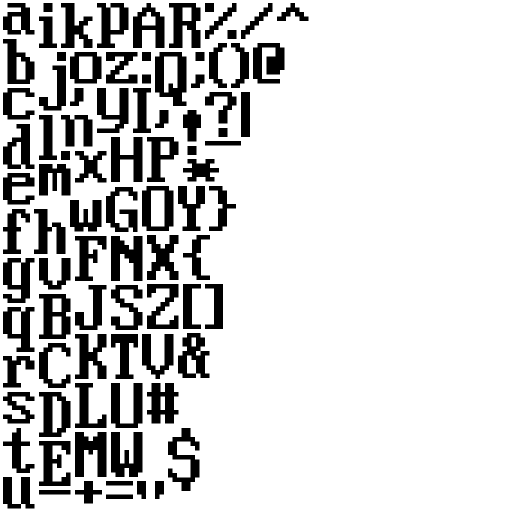
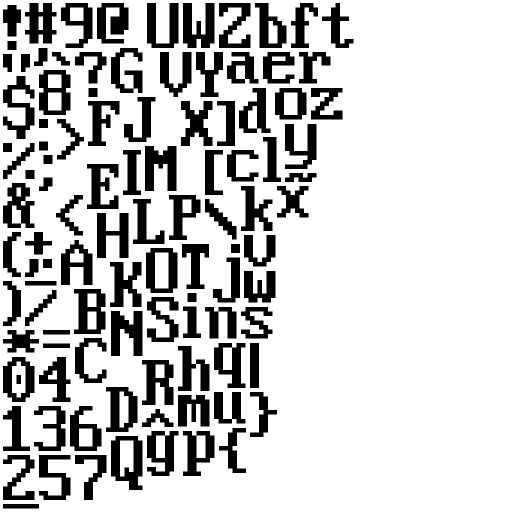
Font offsets more accurate. Broken FPS counter. yoffset for font broken.

Changed region(s): [[0.0, 0.0, 0.6875, 1.0]]

diff --git a/HTML5-Engine/public_html/javascript/MainLevel.js b/HTML5-Engine/public_html/javascript/MainLevel.js
@@ -9,7 +9,10 @@ function MainLevel()
     this.mPlayer;
     this.mEnemyManager;
     this.mBackgroundManager;
-    this.mTestString;
+    this.mFPSText;
+    
+    // FPS variables
+    this.mPrevTime = Date.now();
 }
 MainLevel.prototype = Object.create(Scene.prototype);
 
@@ -59,13 +62,13 @@ MainLevel.prototype.initialize = function()
     // Text
     var textTransform = new Transform();
     textTransform.setPosition(5,5);
-    textTransform.setSize(1,1);
+    textTransform.setSize(10,10);
     textTransform.setZOrder(7);
     
-    this.mTestString = new FontTexture(textTransform, this.mMainShader,
+    this.mFPSText = new FontTexture(textTransform, this.mMainShader,
                                        "resources/fonts/dos-font.png",
                                        "resources/fonts/dos-font.fnt",
-                                       "Testing Textures! 87465@#RT");
+                                       "Testing Textures! 87465@#RT...'");
     
     // Setup background audio, can't take it any more.
     //EngineCore.Resources.playBackgroundAudio("resources/Mind_Meld.mp3");
@@ -88,22 +91,25 @@ MainLevel.prototype.update = function()
         EngineCore.Resources.stopBackgroundAudio();
     }
     
-    if(EngineCore.Input.isKeyDown(EngineCore.Input.LEFT))
-    {
-        this.mTestString.mTransformMatrix.getScale()[0] -= .1;
-    }
-    if(EngineCore.Input.isKeyDown(EngineCore.Input.RIGHT))
-    {
-        this.mTestString.mTransformMatrix.getScale()[0] += .1;
-    }
-    if(EngineCore.Input.isKeyDown(EngineCore.Input.UP))
-    {
-        this.mTestString.mTransformMatrix.getScale()[1] += .1;
-    }
-    if(EngineCore.Input.isKeyDown(EngineCore.Input.DOWN))
-    {
-        this.mTestString.mTransformMatrix.getScale()[1] -= .1;
-    }
+//    if(EngineCore.Input.isKeyDown(EngineCore.Input.LEFT))
+//    {
+//        this.mFPSText.mTransformMatrix.getScale()[0] -= .1;
+//    }
+//    if(EngineCore.Input.isKeyDown(EngineCore.Input.RIGHT))
+//    {
+//        this.mFPSText.mTransformMatrix.getScale()[0] += .1;
+//    }
+//    if(EngineCore.Input.isKeyDown(EngineCore.Input.UP))
+//    {
+//        this.mFPSText.mTransformMatrix.getScale()[1] += .1;
+//    }
+//    if(EngineCore.Input.isKeyDown(EngineCore.Input.DOWN))
+//    {
+//        this.mFPSText.mTransformMatrix.getScale()[1] -= .1;
+//    }
+    
+    this.mFPSText.mTransformMatrix.setX(this.mCamera.getCameraX() - (this.mCamera.getCameraWidth() / 2));
+    this.mFPSText.mTransformMatrix.setY(this.mCamera.getCameraY() - (this.mCamera.getCameraHieght() * .45));
     
     // Update Scene
     this.mPlayer.update();
@@ -113,10 +119,15 @@ MainLevel.prototype.update = function()
 
 MainLevel.prototype.draw = function()
 {
+    var elapsedTime = Date.now() - this.mPrevTime;
+    var mpf = "MS Per Frame: " + elapsedTime;
+    this.mFPSText.mText = mpf;
+    
     EngineCore.Resources.clearCanvas();
     this.mEnemyManager.addToDrawSet();
     this.mBackgroundManager.addToDrawSet();
     this.mPlayer.addToDrawSet();
-    this.mTestString.addToDrawSet();
+    this.mFPSText.addToDrawSet();
     this.mCamera.draw();
+    this.mPrevTime = Date.now();
 };

diff --git a/HTML5-Engine/public_html/javascript/Engine/FontTexture.js b/HTML5-Engine/public_html/javascript/Engine/FontTexture.js
@@ -39,10 +39,7 @@ FontTexture.prototype._drawText = function(gl, shaderProgram, textureCoordBuffer
     var stringSize = this.mTransformMatrix.getScale();
     
     for(var charIndex = 0; charIndex < this.mText.length; charIndex++)
-    {
-        var offsetVector = vec3.create();
-        vec3.set(offsetVector, xAdvance, 0, 0);      
-        
+    {   
         var charInfo = this._getCharInfo(fontInfoXML, this.mText.charCodeAt(charIndex));
 
         // If the char does not exist, dont draw.
@@ -84,8 +81,23 @@ FontTexture.prototype._drawText = function(gl, shaderProgram, textureCoordBuffer
             var mvpMatrix = mat4.create();
 
             // Offset for each letter.
+            var offsetVector = vec3.create();
+            var xOffset = charInfo.getAttribute("xoffset") / texWidth;
+            //var yOffset = -charInfo.getAttribute("yoffset") / texHeight ;
+            
+            vec3.set(offsetVector, xAdvance + xOffset , 0, 0);   
+
+            // Resize for each letter.
+            var scalingVector = vec3.create();
+            vec3.set(scalingVector, spriteWidth, spriteHeight, 1);
+
+            
             var transformMatrix = mat4.create();
             mat4.translate(transformMatrix, this.mTransformMatrix.getMatrix(), offsetVector);
+            mat4.scale(transformMatrix, transformMatrix, scalingVector);
+            
+            
+            
             mat4.multiply(mvpMatrix, vpMatrix, transformMatrix);
 
             var uniformMVP = gl.getUniformLocation(shaderProgram, "uMVPMatrix");
@@ -95,14 +107,11 @@ FontTexture.prototype._drawText = function(gl, shaderProgram, textureCoordBuffer
             gl.drawArrays(gl.TRIANGLE_STRIP, 0, EngineCore.Resources.DEFAULT_NUM_VERTICES);
             
             var pxAdv = charInfo.getAttribute("xadvance"); 
-            var pxSize = charInfo.getAttribute("width");
-            if(pxSize == 0) // :( coersion with strings and numbers.
-            {
-                pxSize = pxAdv;
-            }
             
-            var bufXAdv = (pxAdv / pxSize);
-            
+            var bufXAdv;
+
+            bufXAdv = pxAdv / texWidth;
+
             xAdvance +=  bufXAdv;
         }
     } 
